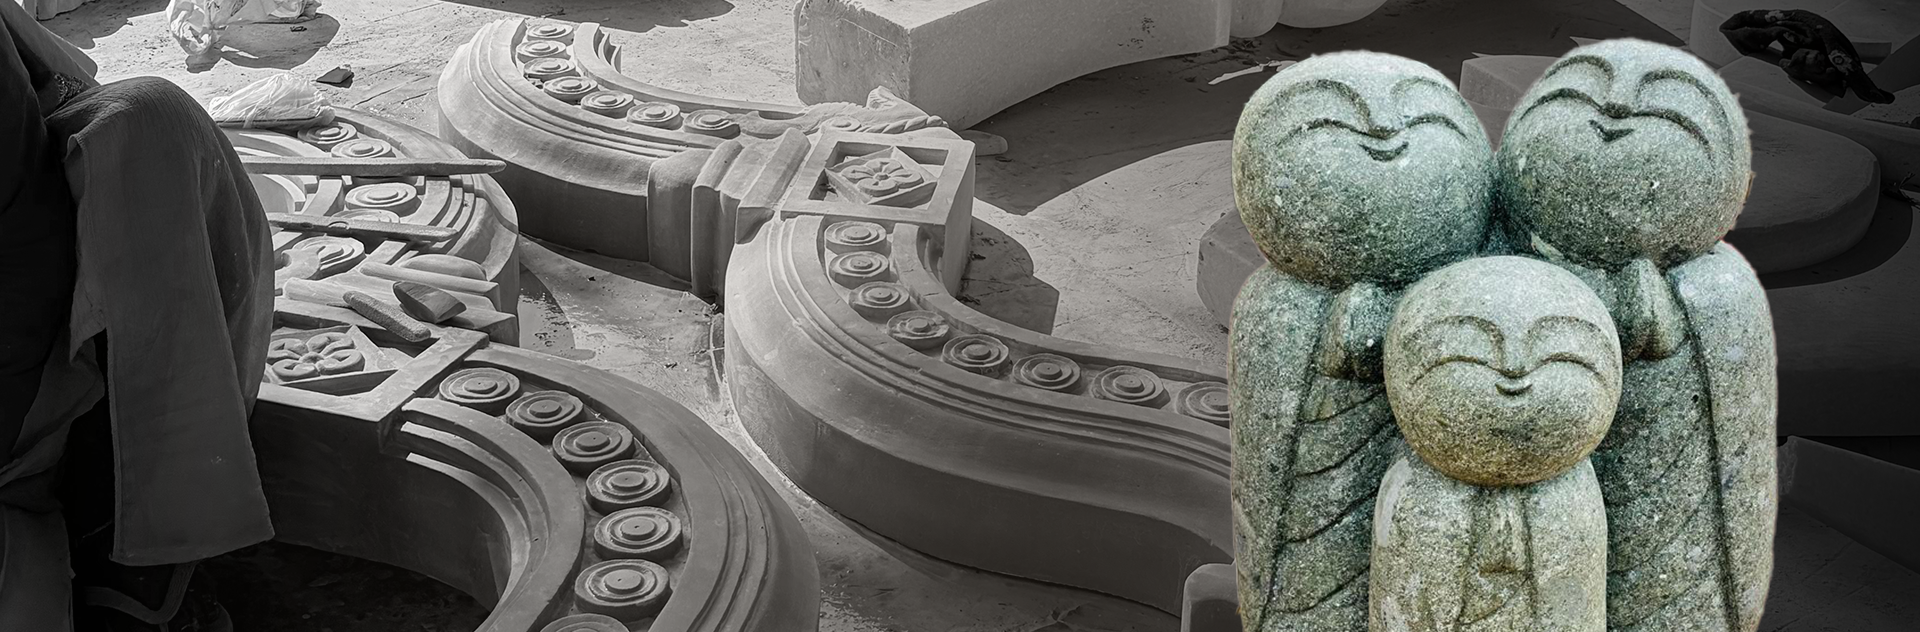
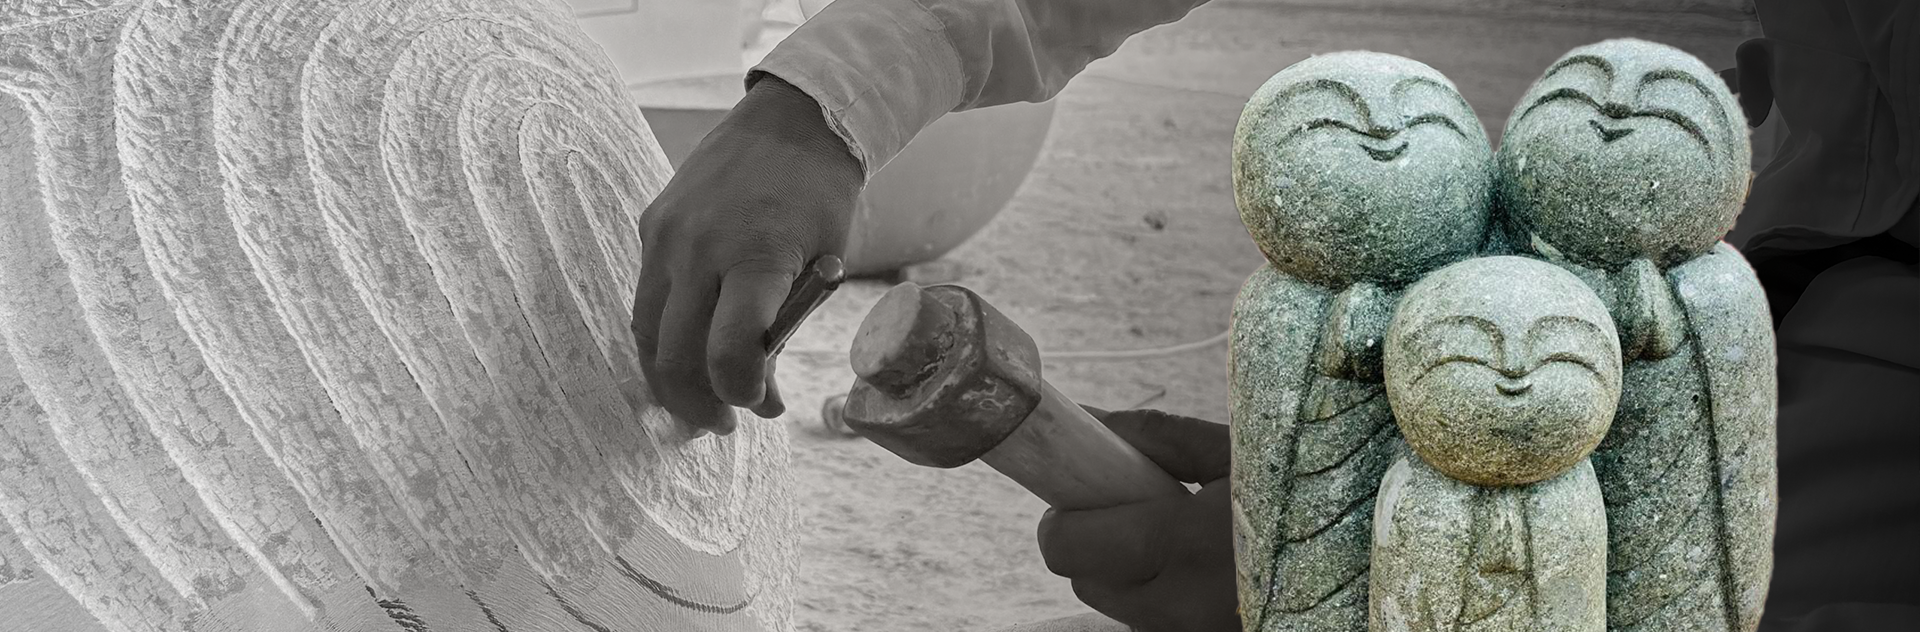
commit

diff --git a/assets/css/main.css b/assets/css/main.css
@@ -19407,3 +19407,23 @@ Primary style
 .breadcrumb-bg-img img {
     opacity: 70%;
 }
+
+@media(max-width:600px){
+  .bs-about-5-sec-title {
+    margin: 0;
+  }
+  .bs-about-5-sec-title h2 {
+    font-size: 2.4rem;
+  }
+  .bs-about-5-area{
+    padding-top: 40px;
+  }
+}
+@media only screen and (min-width: 768px) and (max-width: 991px), (max-width: 767px) {
+    .bs-video-4-content {
+        height: 215px;
+    }
+    .bs-video-4-text-item {
+      font-size: 71px !important;
+    }
+}
